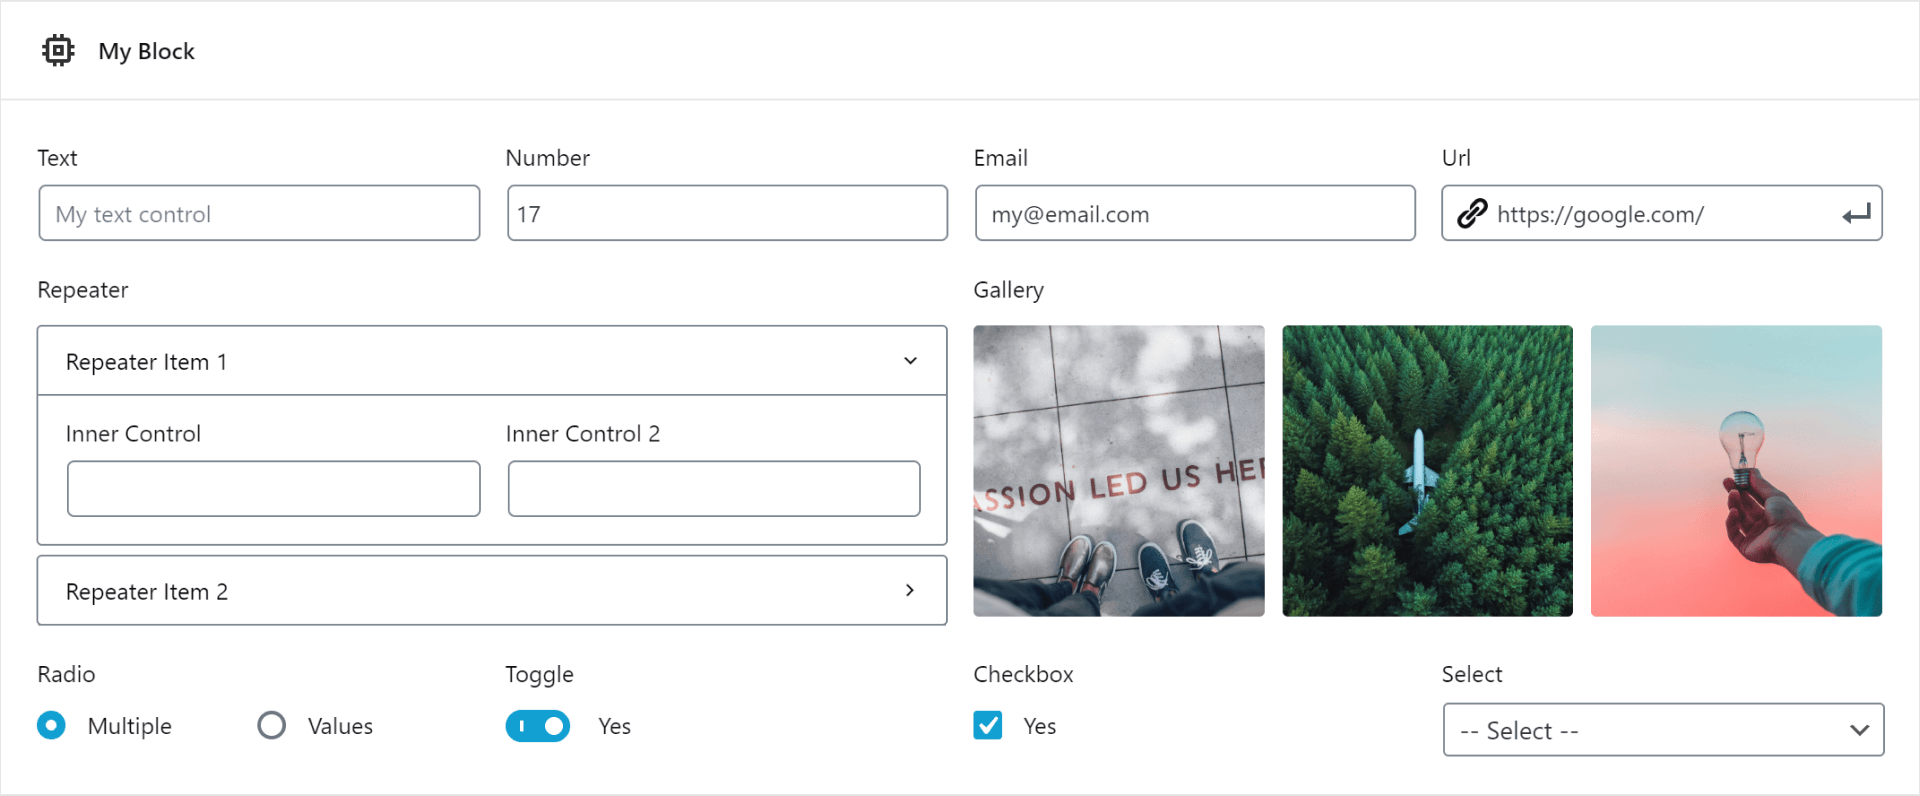
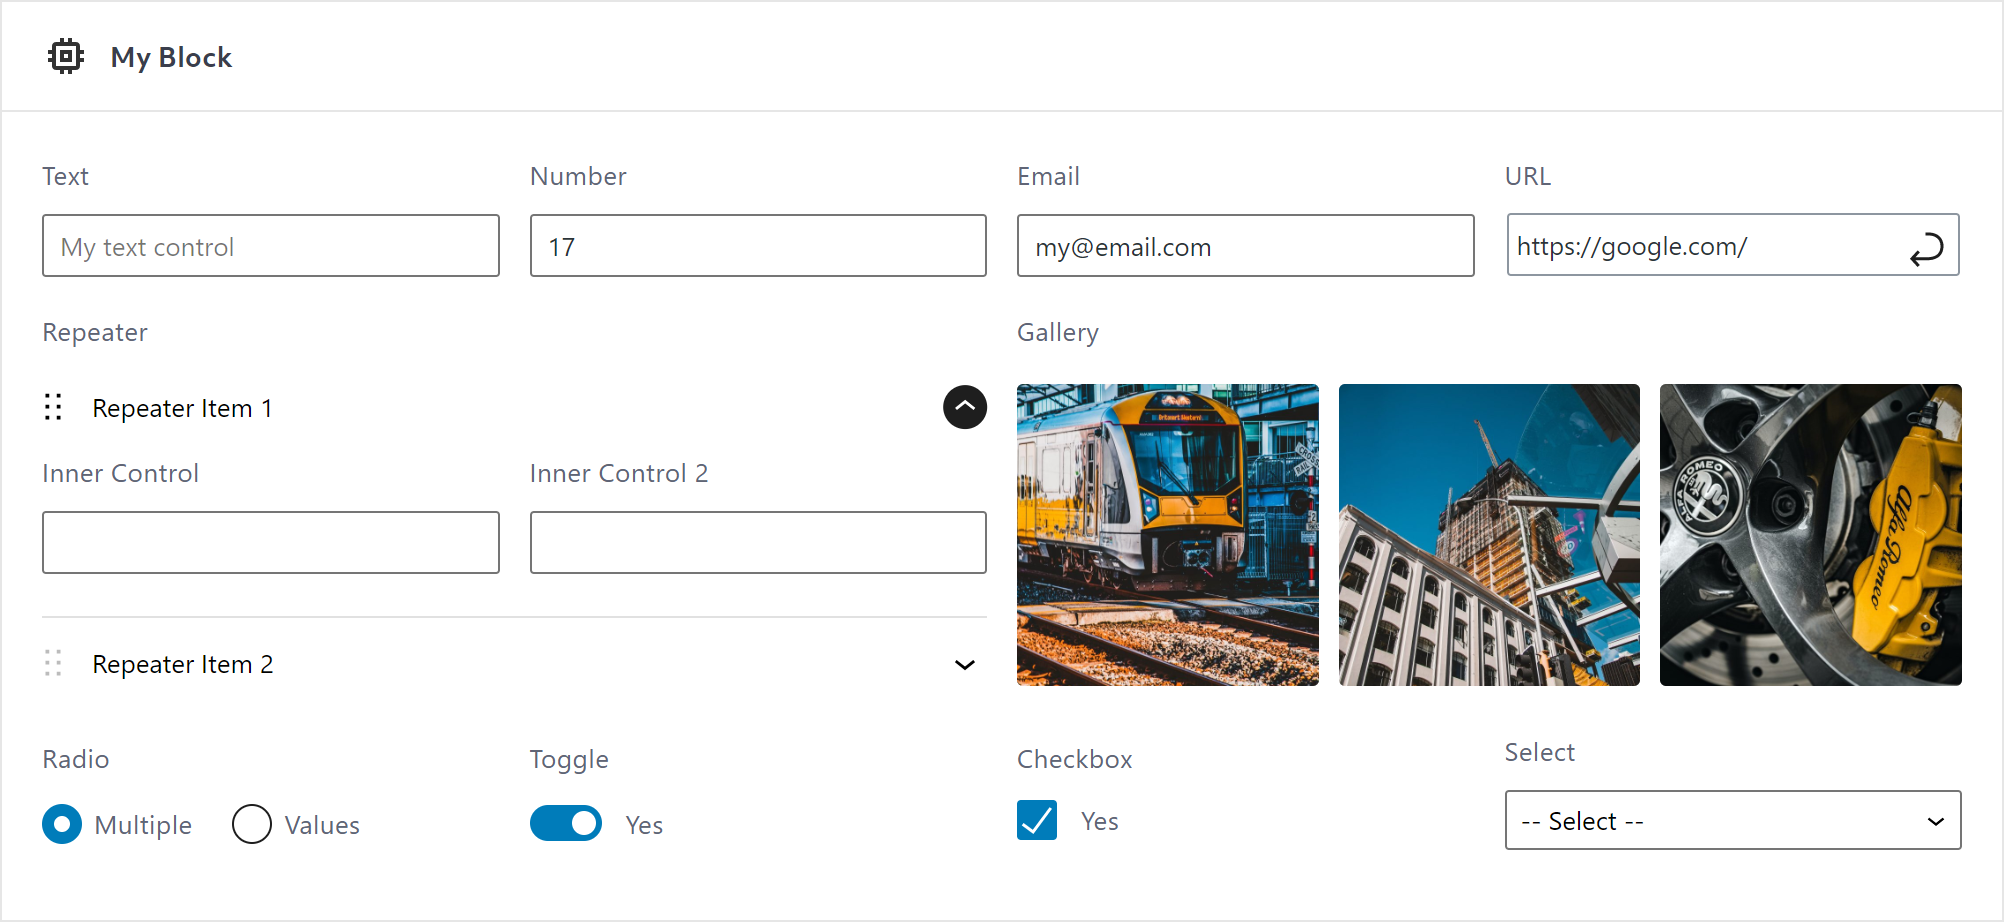
v2.4.0

diff --git a/src/readme.md b/src/readme.md
@@ -3,7 +3,7 @@
 * Contributors: nko
 * Tags: gutenberg, blocks, custom, meta, fields
 * Requires at least: 5.5
-* Tested up to: 5.7
+* Tested up to: 5.8
 * Requires PHP: 5.5.9
 * Stable tag: @@plugin_version
 * License: GPLv2 or later
@@ -101,6 +101,21 @@ The manual installation method involves downloading our Lazy Blocks plugin and u
 3. Posts Templates
 
 ## Changelog
+
+= 2.4.0 =
+
+* added support for WordPress 5.8
+* added a lot of UI improvements
+* added slug check in the block name before register block (fixes possible errors)
+* added placeholder color in image and gallery controls if images no more exist in media library
+* added control names autocompletion to code editor in the blocks constructor
+* fixed multiple select control wrong height and styles
+* fixed displaying control post meta using function `get_lzb_meta` when live reload preview
+* fixed Classic Control toolbar sticky
+* fixed Date Control JS error
+* fixed long words render in control labels and descriptions
+* fixed PHP 8 deprecated error
+* fixed wrong activation hook call
 
 = 2.3.1 =
 
